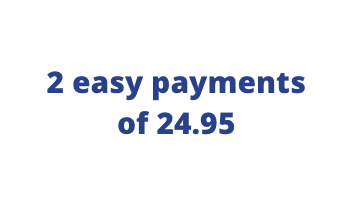
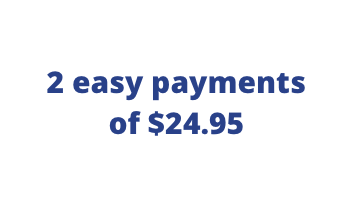
finished desktop order page

Changed region(s): [[0.3179, 0.5294, 0.7225, 0.6765]]

diff --git a/secureOrder.html b/secureOrder.html
@@ -1,0 +1,300 @@
+<!DOCTYPE html>
+<html lang="en">
+<head>
+	<meta http-equiv="X-UA-Compatible" content="IE=edge">
+	<meta name="viewport" content="width=device-width, initial-scale=1, maximum-scale=1, user-scalable=0"/>
+	<meta name="format-detection" content="telephone=no">
+	<link rel="icon" type="image/x-icon" href="images/logo.png" />
+	<meta http-equiv="Content-Type" content="text/html; charset=utf-8" />
+	<link href="https://fonts.googleapis.com/css?family=Open+Sans:400,700" rel="stylesheet">
+	<title>Autoclean Mop | Secure Order Page</title>
+<!-- 	<link rel="stylesheet" href="css/style.css">
+ -->	<style>
+		*{text-decoration: none; margin: 0; padding: 0; max-width: 100%;}
+		html,body{margin: 0; padding: 0; font-family: 'Open Sans', sans-serif; color: #1B263B; font-size: 18px;
+				  background: #E9ECF3; letter-spacing: .5px;}
+		img{border: none;}
+		li{list-style-type: none;}
+		div{display: block; margin: 0; padding: 0; box-sizing: border-box;}
+		u{text-decoration: underline;}
+		s{text-decoration: line-through;}
+		i{font-style: italic;}
+		b, .bold{font-weight: bold;}
+		a:link, a:visited, a:active{text-decoration: none; color: inherit;}
+		.Fright{float: right;}
+		.Fleft{float: left;}
+		.clear{clear: both;}
+		.wrapper{width: 100%; padding: 5% 0;}
+		.container{max-width: 1200px; margin: auto; width: 100%;}
+		.row{padding: 0 30px;}
+		.align-left{text-align: left;}
+		.inline{display: inline;}
+		.inline-block{display: inline-block;}
+		.uppercase{text-transform: uppercase;}
+		.center{text-align: center;}
+		.relative{position: relative;}
+		.hidden{display: none;}
+		.flex-container{display: flex;}
+		.space-between{justify-content: space-between;}
+		.LightBlueBack{background: #5FBFF9 !important; margin-top: 40px; border: 2px solid #5FBFF9 !important;}
+		.LightBlueColor{color: #5FBFF9;}
+		.marbot15{margin-bottom: 15px;}
+		.marbot20{margin-bottom: 20px !important;;}
+		.marbot30{margin-bottom: 30px;}
+		.marbot40{margin-bottom: 40px;}
+		.martop10{margin-top: 10px;}
+		.martop30{margin-top: 30px;}
+		.martop40{margin-top: 40px;}
+		.marright5per{margin-right: 5%;}
+		.blue-font{color: #294189 !important;}
+		.black-font{color: #1B263B;}
+		.font20{font-size: 20px;}
+		.font26{font-size: 26px;}
+		.font28{font-size: 28px;}
+		.pad4{padding: 4%;}
+		.nomarg{margin: 0 !important;}
+		.desktop-hide{display: none;}
+		sup{font-size: 12px;}
+		
+		header{padding: 10px; border-bottom: 1px solid #294189; position: relative; background: #fff;}
+		.CTA{width: 335px; background-color: #294189; font-weight: bold; text-align: center; padding: 18px 0; font-size: 1.2em;
+			 border: 2px solid #294189; color: #fff; margin-top: 40px;}
+		.CTA:hover{background-color: #fff; color: #294189; }
+		.language-button{width: 130px; border: 2px solid #294189; text-align: center; cursor: pointer; font-size: 22px;
+						 font-weight: bold; color: #294189; padding: 10px 0; float: right; margin-top: 10px;}
+		.language-button:hover {color: #fff; background: #294189;}
+		.LightBlueBack:hover{color: #5FBFF9; background: #fff !important;}
+		
+		.icon-style{vertical-align: middle; margin-right: 15px;}
+		.indent-div hr{border: 0; border-top: 1px solid #294189; margin-top: 30px;}
+		.order-item{margin-bottom: 50px; position: relative;}
+		.order-item img{vertical-align: top; margin-right: 30px;}
+		.plus-minus-div{font-weight: bold; font-size: 26px; position: absolute; top: 25%; left: 60%;}
+		.number-box{display: inline-block; border: 1px solid; padding: 0px 15px; margin: 0 10px;}
+		.plus, .minus{font-weight: bold; font-size: 30px; cursor: pointer;}
+		.checkbox{display: inline-block; width: 40px; height: 40px; border: 1px solid #294189; vertical-align: -10px; 
+				  margin-right: 10px; position: relative;}
+		.checkmark{position: absolute; font-size: 30px; right: 5px;}
+		.right-column{float: right; font-size: 24px; text-align: right;}
+		.right-text{margin-left: 130px; float: right; display: inline-block; margin-bottom: 10px; width: 80px;}
+		.left-text{display: inline-block;}
+
+		.input-field{width: 420px;	border: 1px solid #294189; font-size: 25px; padding: 20px;}
+		.checkbox2{display: inline-block; width: 35px; height: 35px; border: 1px solid #294189; vertical-align: -10px; 
+				  margin-right: 10px; position: relative; background: #fff;}
+		.checkmark2{position: absolute; font-size: 25px; right: 5px;}
+		.medium-field{width: 235px; margin-right: 30px;}
+		.small-field{width: 115px;}
+		.width48per{width: 48%;}
+
+		.circle-out{width: 36px; height: 36px; border-radius: 50%; border: 1px solid #294189; text-align: center; 
+					padding: 6px 2.5px 2px 2.5px; display: inline-block; margin-top: 40px; margin-right: 20px;
+				    vertical-align: -8px;}
+		.circle-in{background: #294189; width: 22px; height: 22px; border-radius: 50%; margin: auto;}
+
+		h1{font-size: 45px; margin-bottom: 40px;}
+		h2{font-size: 30px; margin-bottom: 20px;}
+		
+
+		footer{background: #1B263B; text-align: center; color: #fff;}
+
+
+		@media only screen and (max-width: 1000px) {
+			html,body{font-size: 16px;}
+			.flex-container{display: block;}
+			.mobile-hide{display: none;}
+			.column65, .column50{width: 100%;}
+			.column{padding: 5%;}
+			h1{font-size: 25px;}
+			h2{font-size: 22px;}
+			.blue-back p{font-size: 18px;}
+			.CTA{margin: 15px auto; width: 95%;}
+			.mobile-center{text-align: center;}
+			.desktop-hide{display: block;}
+			.mobileFont18{font-size: 18px; font-weight: 100;}
+			.mobileFont14{font-size: 14px;}
+			footer{padding: 8% 8% 2% !important;}
+		}
+	</style>
+		<!--[if lt IE 9]>
+		<script src="http://html5shiv.googlecode.com/svn/trunk/html5.js"></script>
+		<![endif]-->
+	</head>
+	<body>
+		<header>
+			<div class="row"></div>
+			<div class="container">
+				<div class="language-button">Español</div>
+				<img src="images/logo.png" alt="" width="120">
+				<div class="clear"></div>
+			</div>
+		</header>
+		<div class="wrapper">
+			<div class="row">
+				<div class="container">
+					<h1 class="blue-font center">Your AutoClean Mop Order Details</h1>
+					<h2 class="blue-font"><img src="images/icon_cart.png" alt="" class="icon-style"> Make Your Purchase</h2>
+					<div class="indent-div">
+						<div class="order-item">
+							<p class="bold font28 marbot40">One system for 2 payments of $24.95 + $14.95 S&amp;P</p>
+							<p class="bold font28 Fright">$39.90</p>
+							<img src="images/mop_bucket_cropped.jpg" alt=""> <p class="bold font28 inline-block">Autoclean Mop</p><div class="plus-minus-div"><span class="plus">+</span> <div class="number-box">1</div> <span class="minus">&ndash;</span></div>
+							<div class="clear"></div>
+							<hr>
+						</div>
+						<div class="order-item">
+							<p class="bold font28 marbot40">3-pack of microfiber pads for $19.95 + $4.95 S&amp;P</p>
+							<p class="bold font28 Fright">$24.90</p>
+							<img src="images/three_pads.jpg" alt=""> <p class="bold font28 inline-block">3-pack of microfiber pads</p><div class="plus-minus-div"><span class="plus">+</span> <div class="number-box">1</div> <span class="minus">&ndash;</span></div>
+							<div class="clear"></div>
+							<hr>
+						</div>
+						<div class="order-item">
+							<p class="bold font28 marbot40">RUSH, additional $9.95 S&amp;P</p>
+							<p class="bold font28 Fright">$9.95</p>
+							<div class="checkbox"><span class="checkmark">&#x2714;</span></div><p class="bold font28 inline-block">Rush my order (3 to 5 days shipping)</p>
+							<div class="clear"></div>
+							<hr>
+						</div>
+						<div class="order-item">
+							<div class="right-column">
+								<p class="right-text">$64.80</p>
+								<p class="left-text">Subtotal</p>
+								<div class="clear"></div>
+								<p class="right-text">$3.50</p>
+								<p class="left-text">Tax</p>
+								<div class="clear"></div>
+								<p class="right-text">$19.90</p>
+								<p class="left-text">Shipping &amp; Processing</p>
+								<div class="clear"></div>
+								<p class="right-text">$88.20</p>
+								<p class="left-text">Order Total</p>
+								<div class="clear"></div>
+							</div>
+							<div class="clear"></div>
+							<hr>
+						</div>
+						<div class="right-column">
+							<p class="right-text bold">$63.25</p>
+							<p class="left-text bold marbot30">Today's Payment</p>
+							<div class="clear"></div>
+							<p class="right-text bold">$24.95</p>
+							<p class="left-text bold">Second Payment Due in 30 days</p>
+							<div class="clear"></div>
+						</div>
+						<div class="clear"></div>
+					</div>
+					<h2 class="blue-font martop40"><img src="images/icon_email.png" alt="" class="icon-style"> Email</h2>
+					<div class="indent-div">
+						<p class="bold font28 marbot20">What's your email address? (Once entered your email will be used for transactional emails, including checkout help)</p>
+						<div class="Fleft">
+							<p class="font20 marbot15">Email Address <sup>*</sup></p>
+							<input type="text" class="input-field">
+						</div>
+						<div class="Fright width48per">
+							<div class="checkbox2"><span class="checkmark2">&#x2714;</span></div> <p class="inline">Also register email address with Starlyte AutoClean Mop.</p>
+							<p class="martop10">By agreeing to register your email address you may receive emails about: first access to new products, special VIP offers & discounts, product hints & tips, questionnaires and exclusive prize draws and competitions</p>
+						</div>
+						<div class="clear"></div>
+						<hr>
+					</div>
+					<h2 class="blue-font martop40"><img src="images/icon_delivery.png" alt="" class="icon-style"> Shipping</h2>
+					<div class="indent-div">
+						<p class="bold font28 marbot20">Where would you like to receive your order?</p>
+						<div class="Fleft">
+							<p class="font20 marbot15">First Name <sup>*</sup></p>
+							<input type="text" class="input-field">
+						</div>
+						<div class="Fright">
+							<p class="font20 marbot15">Last Name <sup>*</sup></p>
+							<input type="text" class="input-field">
+						</div>
+						<div class="clear marbot20"></div>
+						<div class="Fleft">
+							<p class="font20 marbot15">Street Address <sup>*</sup></p>
+							<input type="text" class="input-field">
+						</div>
+						<div class="Fright">
+							<p class="font20 marbot15">Address Two</p>
+							<input type="text" class="input-field">
+						</div>
+						<div class="clear marbot20"></div>
+						<div class="Fleft">
+							<p class="font20 marbot15">City <sup>*</sup></p>
+							<input type="text" class="input-field">
+						</div>
+						<div class="Fright">
+							<div class="Fleft">
+								<p class="font20 marbot15">State <sup>*</sup></p>
+								<input type="text" class="input-field medium-field">
+							</div>
+							<div class="Fright">
+								<p class="font20 marbot15">Postal Code <sup>*</sup></p>
+								<input type="text" class="input-field small-field">
+							</div>
+							<div class="clear"></div>
+						</div>
+						<div class="clear marbot20"></div>
+						<div class="Fleft">
+							<p class="font20 marbot15">Phone Number <sup>*</sup></p>
+							<input type="text" class="input-field">
+						</div>
+						<div class="clear"></div>
+						<hr>
+						</div>
+						<h2 class="blue-font martop40 marbot40"><img src="images/icon_billing.png" alt="" class="icon-style"> Billing</h2>
+						<div class="indent-div">
+							<div class="checkbox2"><span class="checkmark2">&#x2714;</span></div> <p class="inline">Billing address same as shipping?</p><br>
+							<div class="circle-out"><div class="circle-in"></div></div><h2 class="inline-block">Pay by Credit Card</h2><br>
+							<div class="Fleft">
+								<p class="font20 marbot15">Credit Card Number <sup>*</sup></p>
+								<input type="text" class="input-field">
+							</div>
+							<div class="Fright">
+							<div class="Fleft">
+								<p class="font20 marbot15">Expiration Date <sup>*</sup></p>
+								<input type="text" class="input-field medium-field">
+							</div>
+							<div class="Fright">
+								<p class="font20 marbot15">Security Code <sup>*</sup></p>
+								<input type="text" class="input-field small-field">
+							</div>
+							<div class="clear"></div>
+							</div>
+							<div class="clear"></div>
+							<img src="images/norton.jpg" alt="" class="Fright martop30" width="200">
+							<div class="clear"></div>
+							<hr>
+						</div>
+						<div class="CTA Fright">Complete My Purchase</div>
+						<div class="clear"></div>
+					</div> <!--end of container -->
+				</div> <!--end of row -->
+			</div> <!--end of wrapper -->
+		<footer class="pad4">
+			<p class="bold marbot20 font20 mobileFont14"><a href="secureOrder.html">Order Now</a> | <a href="privacy.html">Privacy Policy</a> | <a href="contact.html">Contact Us</a> | <a href="terms.html">Terms and Conditions</a></p>
+			<p class="bold marbot20 font20 mobileFont14">&copy;Copyright 2019 Starlyte AutoClean Mop LLC - All Rights Reserved</p>
+		</footer> 
+		<script src="https://ajax.googleapis.com/ajax/libs/jquery/3.2.1/jquery.min.js"></script>
+		<script>
+			$(document).ready(function() {
+				$(".language-button").click(function() {
+
+					function SpanishOn() {
+						$(".language-button").html("English");
+						$(".english-text").hide();
+						$(".spanish-text").show();
+					}
+
+					function SpanishOff() {
+						$(".language-button").html("Español");
+						$(".spanish-text").hide();
+						$(".english-text").show();
+					}
+
+					return (this.tog = !this.tog) ? SpanishOn() : SpanishOff();
+				})
+			})
+		</script>
+	</body>
+	</html>

diff --git a/index.html b/index.html
@@ -7,7 +7,7 @@
 	<link rel="icon" type="image/x-icon" href="images/logo.png" />
 	<meta http-equiv="Content-Type" content="text/html; charset=utf-8" />
 	<link href="https://fonts.googleapis.com/css?family=Open+Sans:400,700" rel="stylesheet">
-	<title>Autoclean Mop</title>
+	<title>Autoclean Mop | Home Page</title>
 <!-- 	<link rel="stylesheet" href="css/style.css">
  -->	<style>
 		*{text-decoration: none; margin: 0; padding: 0; max-width: 100%;}
@@ -36,7 +36,7 @@
 		.hidden{display: none;}
 		.flex-container{display: flex;}
 		.space-between{justify-content: space-between;}
-		.LightBlueBack{background: #5FBFF9 !important; margin-top: 40px;}
+		.LightBlueBack{background: #5FBFF9 !important; margin-top: 40px; border: 2px solid #5FBFF9 !important;}
 		.LightBlueColor{color: #5FBFF9;}
 		.marbot15{margin-bottom: 15px;}
 		.marbot20{margin-bottom: 20px !important;;}
@@ -49,10 +49,16 @@
 		.font26{font-size: 26px;}
 		.pad4{padding: 4%;}
 		.nomarg{margin: 0 !important;}
-		.desktop-hide{display: none;}
+		.desktop-hide, .spanish-text{display: none;}
 		
-		header{padding: 10px; border-bottom: 1px solid #294189;}
-		.CTA{width: 237px; background-color: #294189; font-weight: bold; text-align: center; padding: 20px 0; font-size: 1.2em;}
+		header{padding: 10px; border-bottom: 1px solid #294189; position: relative;}
+		.CTA{width: 237px; background-color: #294189; font-weight: bold; text-align: center; padding: 18px 0; font-size: 1.2em;
+			 border: 2px solid #294189;}
+		.CTA:hover{background-color: #fff; color: #294189; }
+		.language-button{width: 130px; border: 2px solid #294189; text-align: center; cursor: pointer; font-size: 22px;
+						 font-weight: bold; color: #294189; padding: 10px 0; position: absolute; left: 47%; top: 20%;}
+		.language-button:hover {color: #fff; background: #294189;}
+		.LightBlueBack:hover{color: #5FBFF9; background: #fff !important;}
 
 		.column{flex: 1; display: flex; justify-content: center; padding: 5% 0;}
 		.column50{width: 50%;}
@@ -98,7 +104,7 @@
 
 		@media only screen and (max-width: 960px) {
 			html,body{font-size: 16px;}
-
+			.language-button{position: initial; float: right; margin-top: 10px;}
 			.flex-container{display: block;}
 			.mobile-hide{display: none;}
 			.column65, .column50{width: 100%;}
@@ -129,6 +135,7 @@
 			<div class="row"></div>
 			<div class="container">
 				<a href="secureOrder.html"><div class="CTA Fright mobile-hide">Order Today</div></a>
+				<div class="language-button">Español</div>
 				<img src="images/logo.png" alt="" width="120">
 				<div class="clear"></div>
 			</div>
@@ -340,9 +347,29 @@
 	</div>
 		</div>
 		<footer class="pad4">
-			<p class="bold marbot20 font20 mobileFont14"><a href="secureOrder.html">Order Now</a> | <a href="privacy.html">Privacy Policy</a> | <a href="contact.html">Contact Us</a> | <a href="terms.html">Terms and Conditions</a></p>
+			<p class="bold marbot20 font20 mobileFont14"><a href="secureOrder.html"><span class="english-text">Order Now</span><span class="spanish-text">Ordene Ahora</span></a> | <a href="privacy.html">Privacy Policy</a> | <a href="contact.html">Contact Us</a> | <a href="terms.html">Terms and Conditions</a></p>
 			<p class="bold marbot20 font20 mobileFont14">&copy;Copyright 2019 Starlyte AutoClean Mop LLC - All Rights Reserved</p>
 		</footer>
 		<script src="https://ajax.googleapis.com/ajax/libs/jquery/3.2.1/jquery.min.js"></script>
+		<script>
+			$(document).ready(function() {
+				$(".language-button").click(function() {
+
+					function SpanishOn() {
+						$(".language-button").html("English");
+						$(".english-text").hide();
+						$(".spanish-text").show();
+					}
+
+					function SpanishOff() {
+						$(".language-button").html("Español");
+						$(".spanish-text").hide();
+						$(".english-text").show();
+					}
+
+					return (this.tog = !this.tog) ? SpanishOn() : SpanishOff();
+				})
+			})
+		</script>
 	</body>
 	</html>
